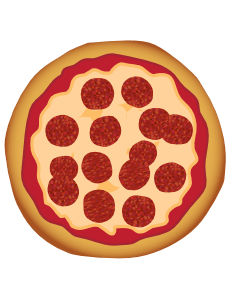
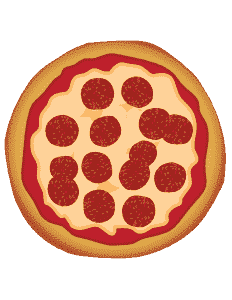
optimized pizza image

diff --git a/src/views/css/all.min.css b/src/views/css/all.min.css
@@ -5,6 +5,13 @@
  *//*!
  * Generated using the Bootstrap Customizer (http://getbootstrap.com/customize/?id=6b5a4e476fec98c1638f)
  * Config saved to config.json and https://gist.github.com/6b5a4e476fec98c1638f
+ *//*! normalize.css v3.0.1 | MIT License | git.io/normalize *//*!
+ * Bootstrap v3.2.0 (http://getbootstrap.com)
+ * Copyright 2011-2014 Twitter, Inc.
+ * Licensed under MIT (https://github.com/twbs/bootstrap/blob/master/LICENSE)
+ *//*!
+ * Generated using the Bootstrap Customizer (http://getbootstrap.com/customize/?id=6b5a4e476fec98c1638f)
+ * Config saved to config.json and https://gist.github.com/6b5a4e476fec98c1638f
  *//*! normalize.css v3.0.1 | MIT License | git.io/normalize */.affix,.mover{position:fixed}.img-responsive,.img-thumbnail{width:100%\9;max-width:100%;height:auto}/*!
  * Bootstrap v3.2.0 (http://getbootstrap.com)
  * Copyright 2011-2014 Twitter, Inc.

diff --git a/dist/views/css/all.min.css b/dist/views/css/all.min.css
@@ -5,6 +5,13 @@
  *//*!
  * Generated using the Bootstrap Customizer (http://getbootstrap.com/customize/?id=6b5a4e476fec98c1638f)
  * Config saved to config.json and https://gist.github.com/6b5a4e476fec98c1638f
+ *//*! normalize.css v3.0.1 | MIT License | git.io/normalize *//*!
+ * Bootstrap v3.2.0 (http://getbootstrap.com)
+ * Copyright 2011-2014 Twitter, Inc.
+ * Licensed under MIT (https://github.com/twbs/bootstrap/blob/master/LICENSE)
+ *//*!
+ * Generated using the Bootstrap Customizer (http://getbootstrap.com/customize/?id=6b5a4e476fec98c1638f)
+ * Config saved to config.json and https://gist.github.com/6b5a4e476fec98c1638f
  *//*! normalize.css v3.0.1 | MIT License | git.io/normalize */.img-responsive,.img-thumbnail{width:100%\9;max-width:100%;height:auto}/*!
  * Bootstrap v3.2.0 (http://getbootstrap.com)
  * Copyright 2011-2014 Twitter, Inc.
